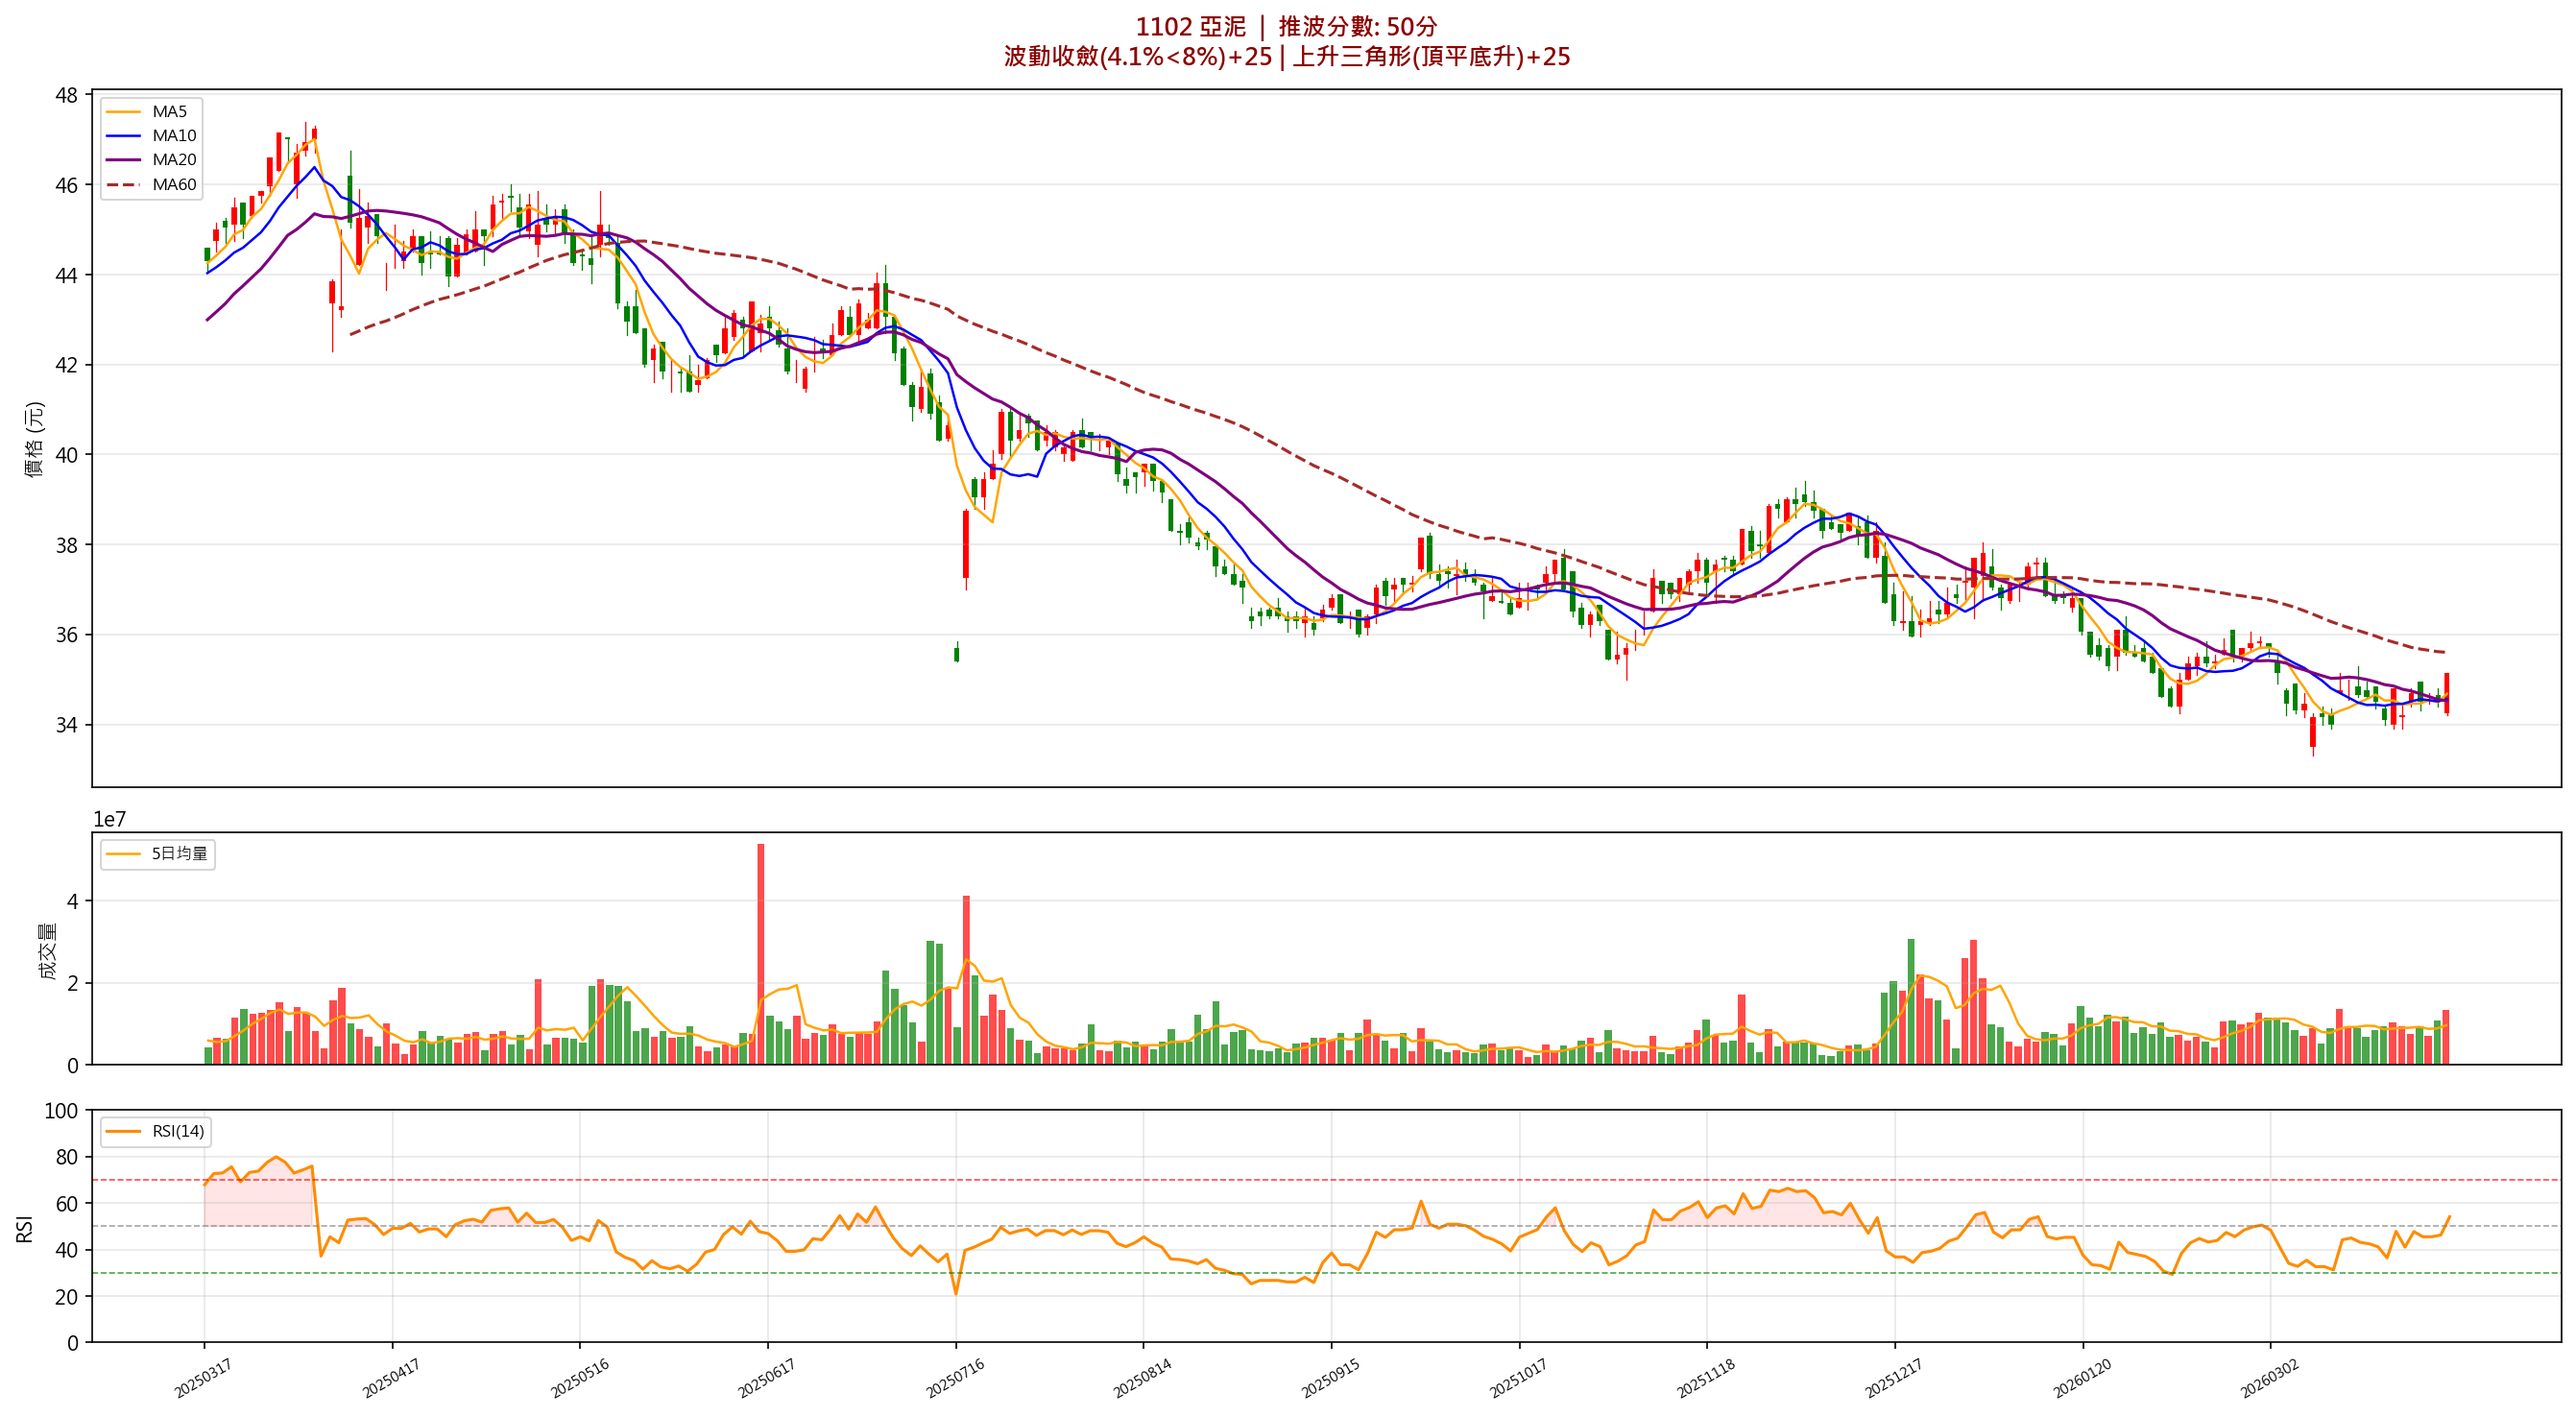
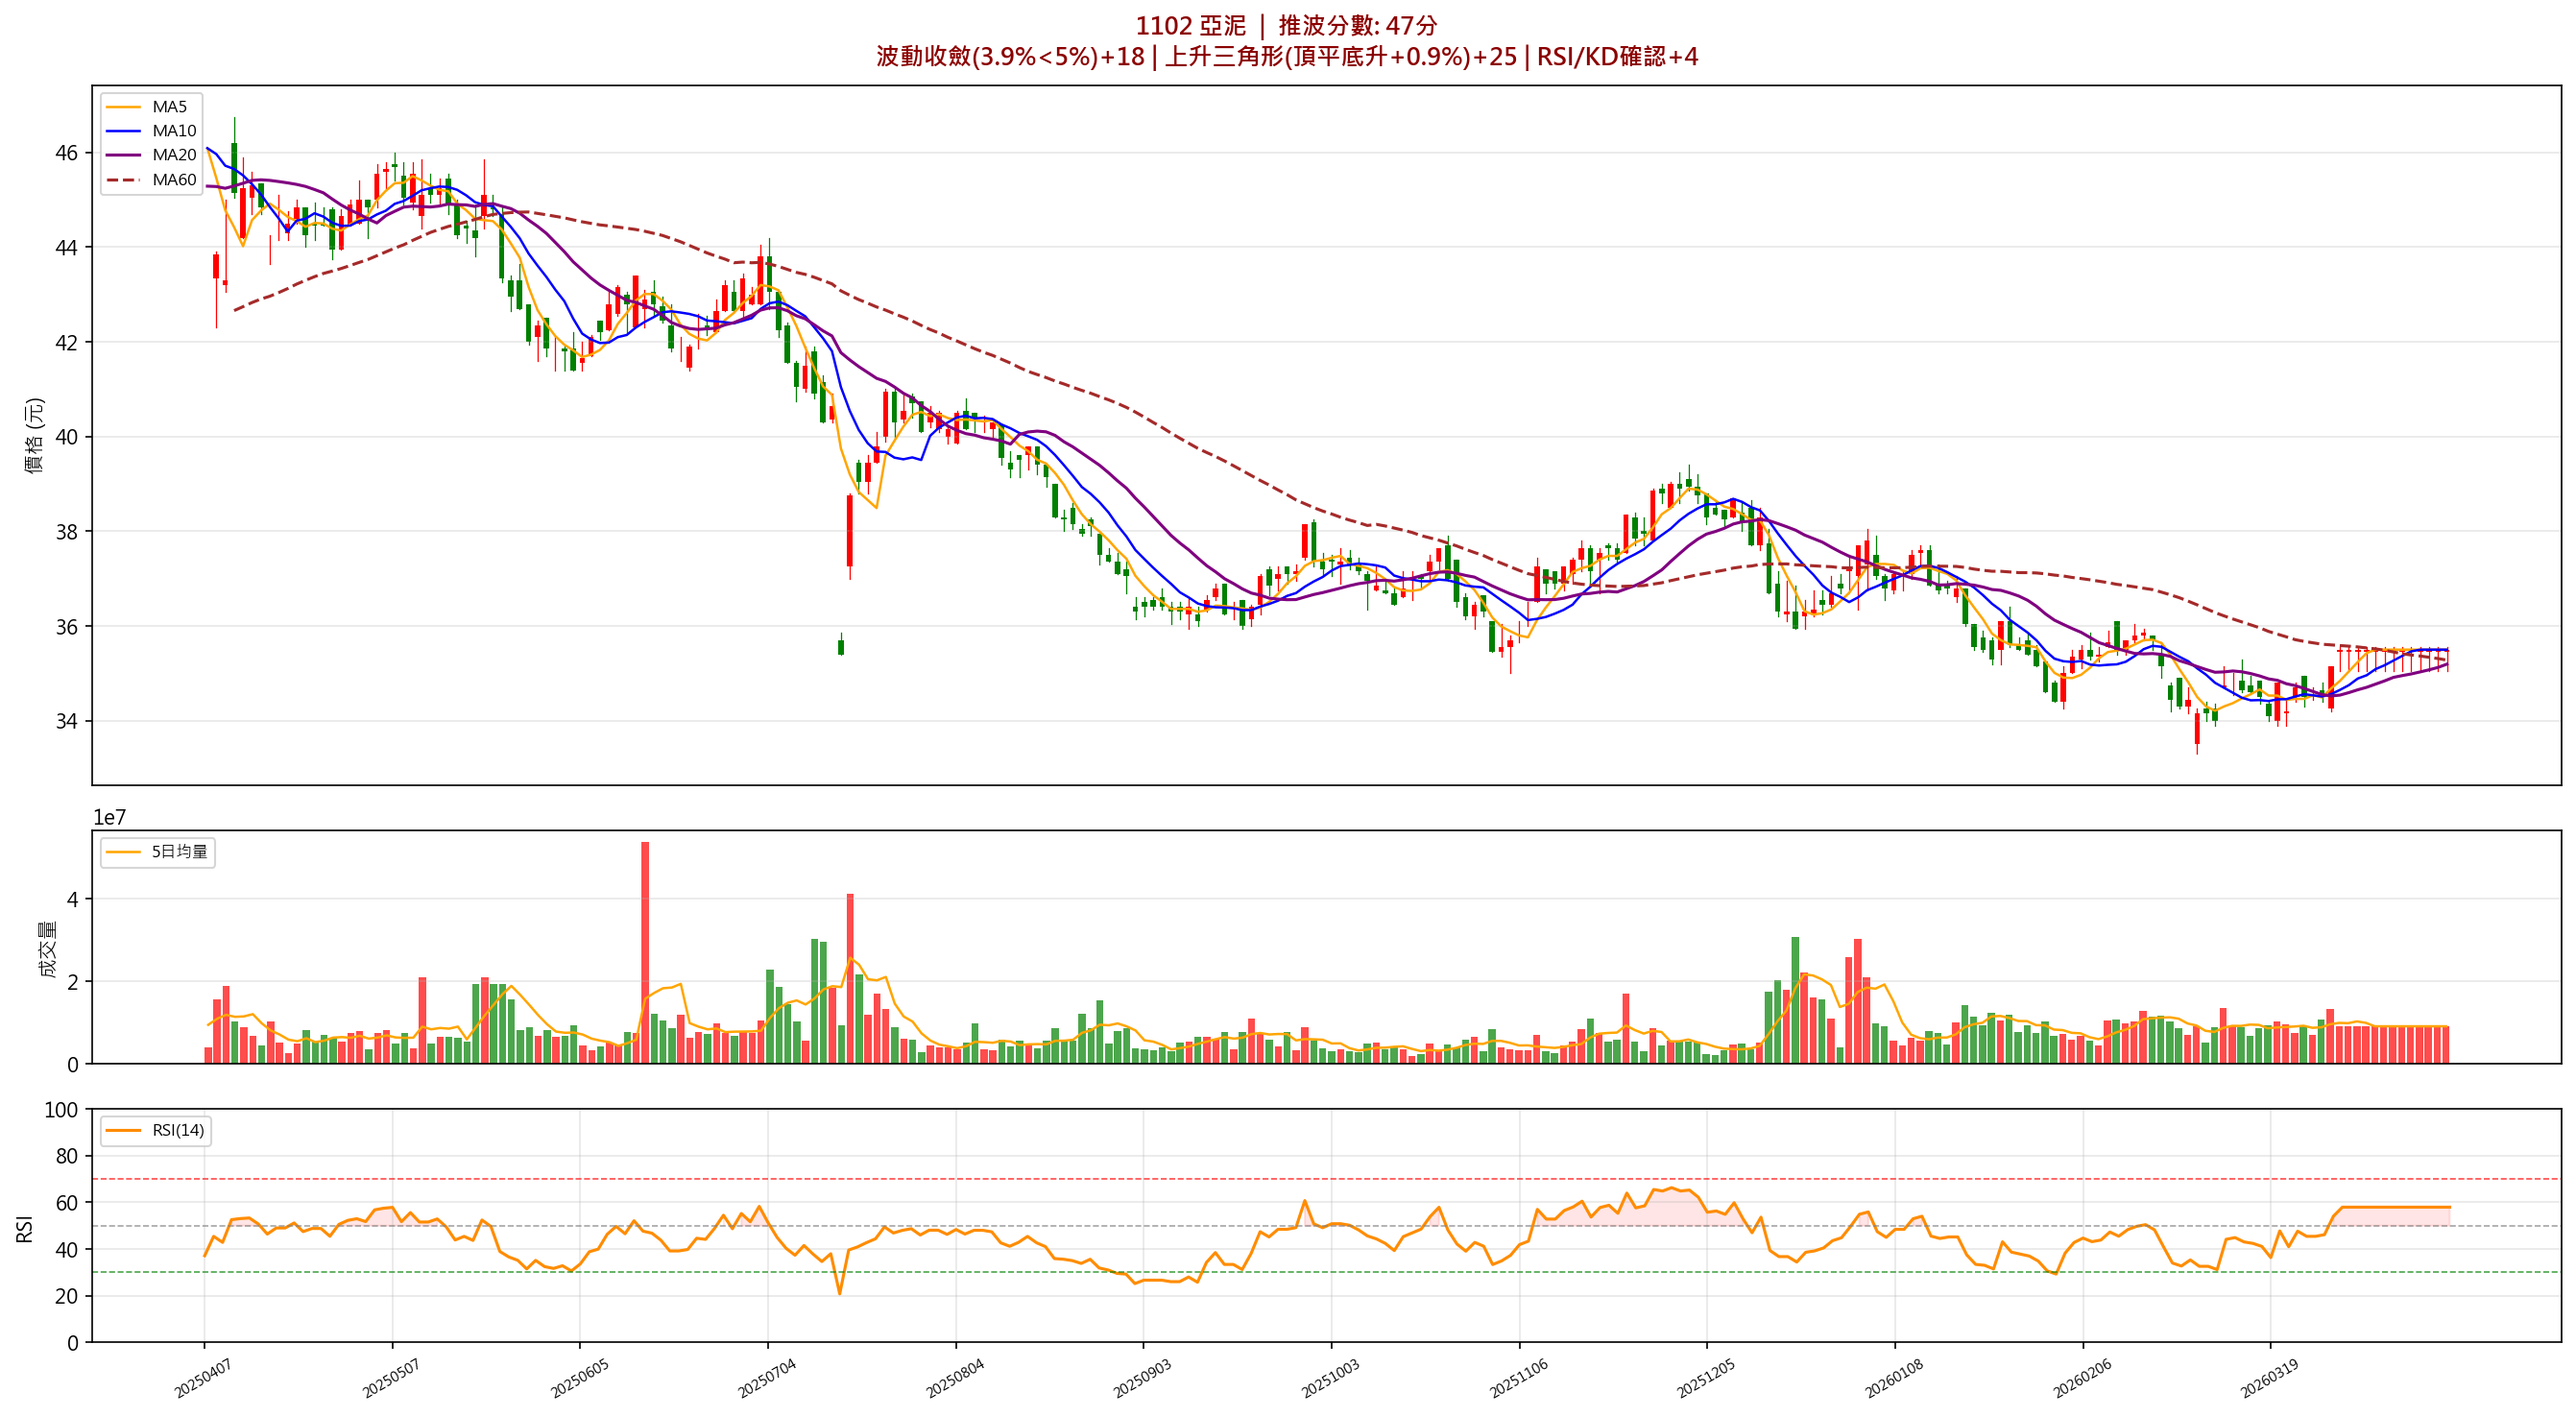
update report 2026-04-16 17:48

diff --git a/AI推波報告.html b/AI推波報告.html
@@ -1,6 +1,6 @@
 <!DOCTYPE html>
 <html lang='zh-TW'><head><meta charset='UTF-8'>
-<title>推波投資組合報告 20260330</title>
+<title>推波投資組合報告 20260416</title>
 <style>
   body{font-family:'Microsoft JhengHei',sans-serif;max-width:1000px;margin:30px auto;
         padding:20px;background:#fafafa;line-height:1.8}
@@ -25,23 +25,23 @@
                border-radius:4px;margin:12px 0;font-weight:bold}
 </style></head><body>
 <h1>📈 推波投資組合報告</h1>
-<div class="meta">分析日期: <b>20260330</b> （前次：20260330）
- &nbsp;|&nbsp; 核心池 0 支
- &nbsp;|&nbsp; 衛星池 20 支
+<div class="meta">分析日期: <b>20260416</b> （前次：20260330）
+ &nbsp;|&nbsp; 核心池 6 支
+ &nbsp;|&nbsp; 衛星池 9 支
  &nbsp;|&nbsp; 由 Gemini gemini-2.5-flash 分析</div>
 <div class="warn">⚠ 本報告由 AI 自動生成，僅供參考。股市有風險，投資前請自行評估。</div>
 
 
-<div class="section delta"><h2>📊 今日異動摘要</h2><h3>★ 新進入候選池</h3><ul><li><b>1102 亞泥</b> 推波分數 65 分</li><li><b>2105 正新</b> 推波分數 46 分</li><li><b>1229 聯華</b> 推波分數 45 分</li><li><b>2049 上銀</b> 推波分數 45 分</li><li><b>9907 統一實</b> 推波分數 40 分</li><li><b>2108 南帝</b> 推波分數 40 分</li><li><b>1723 中碳</b> 推波分數 40 分</li><li><b>1227 佳格</b> 推波分數 40 分</li><li><b>8210 勤誠</b> 推波分數 34 分</li><li><b>0052 富邦科技</b> 推波分數 30 分</li><li><b>0056 元大高股息</b> 推波分數 30 分</li><li><b>0050 元大台灣50</b> 推波分數 30 分</li><li><b>2023 燁輝</b> 推波分數 30 分</li></ul><h3>✗ 退出候選池</h3><ul><li><s>4942 嘉彰</s></li><li><s>1707 葡萄王</s></li><li><s>1463 強盛新</s></li><li><s>1219 福壽</s></li><li><s>6115 鎰勝</s></li><li><s>9944 新麗</s></li><li><s>3168 眾福科</s></li><li><s>1452 宏益</s></li><li><s>2459 敦吉</s></li><li><s>2707 晶華</s></li><li><s>2739 寒舍</s></li><li><s>2434 統懋</s></li><li><s>2114 鑫永銓</s></li></ul></div>
+<div class="section delta"><h2>📊 今日異動摘要</h2><h3>★ 新進入候選池</h3><ul><li><b>2845 遠東銀</b> 推波分數 76 分</li><li><b>1216 統一</b> 推波分數 71 分</li><li><b>9941 裕融</b> 推波分數 68 分</li><li><b>6005 群益證</b> 推波分數 67 分</li><li><b>1210 大成</b> 推波分數 67 分</li><li><b>2332 友訊</b> 推波分數 64 分</li><li><b>3413 京鼎</b> 推波分數 60 分</li><li><b>2354 鴻準</b> 推波分數 57 分</li><li><b>2010 春源</b> 推波分數 56 分</li><li><b>4306 炎洲</b> 推波分數 56 分</li><li><b>1402 遠東新</b> 推波分數 52 分</li><li><b>1536 和大</b> 推波分數 45 分</li></ul><h3>✗ 退出候選池</h3><ul><li><s>2886 兆豐金</s></li><li><s>3167 大量</s></li><li><s>2801 彰銀</s></li><li><s>2511 太子</s></li><li><s>2903 遠百</s></li><li><s>2105 正新</s></li><li><s>1229 聯華</s></li><li><s>2049 上銀</s></li><li><s>9907 統一實</s></li><li><s>2108 南帝</s></li><li><s>1723 中碳</s></li><li><s>1227 佳格</s></li><li><s>8210 勤誠</s></li><li><s>0052 富邦科技</s></li><li><s>0056 元大高股息</s></li><li><s>0050 元大台灣50</s></li><li><s>2023 燁輝</s></li></ul><h3>分數變動</h3><table><tr><th>代號</th><th>名稱</th><th>前次</th><th>今日</th><th>變動</th><th>所在池</th></tr><tr><td>2812</td><td>台中銀</td><td>68</td><td>81</td><td><span style="color:green">↑</span> 13</td><td>衛星池</td></tr><tr><td>5876</td><td>上海商銀</td><td>68</td><td>74</td><td><span style="color:green">↑</span> 6</td><td>衛星池</td></tr><tr><td>1102</td><td>亞泥</td><td>65</td><td>60</td><td><span style="color:red">↓</span> 5</td><td>衛星池</td></tr></table></div>
 
 <div class="section core">
 <h2>🏛 核心池（Core Pool）— 長期持有</h2>
-<p style="color:#aaa">核心池 暫無持股</p>
+<table><tr><th>代號</th><th>名稱</th><th>收盤</th><th>推波分數</th></tr><tr><td><b>2845</b></td><td>遠東銀</td><td>12.7</td><td style="color:#cc0000;font-weight:bold">76</td></tr><tr><td><b>9941</b></td><td>裕融</td><td>77.8</td><td style="color:#cc0000;font-weight:bold">68</td></tr><tr><td><b>6005</b></td><td>群益證</td><td>28.0</td><td style="color:#cc0000;font-weight:bold">67</td></tr><tr><td><b>1210</b></td><td>大成</td><td>54.8</td><td style="color:#cc0000;font-weight:bold">67</td></tr><tr><td><b>2010</b></td><td>春源</td><td>25.1</td><td style="color:#cc0000;font-weight:bold">56</td></tr><tr><td><b>1402</b></td><td>遠東新</td><td>26.45</td><td style="color:#cc0000;font-weight:bold">52</td></tr></table>
 </div>
 
 <div class="section satellite">
 <h2>🛰 衛星池（Satellite Pool）— 技術操作</h2>
-<table><tr><th>代號</th><th>名稱</th><th>收盤</th><th>推波分數</th></tr><tr><td><b>2886</b></td><td>兆豐金</td><td>38.65</td><td style="color:#0066cc;font-weight:bold">73</td></tr><tr><td><b>5876</b></td><td>上海商銀</td><td>39.0</td><td style="color:#0066cc;font-weight:bold">68</td></tr><tr><td><b>2812</b></td><td>台中銀</td><td>20.55</td><td style="color:#0066cc;font-weight:bold">68</td></tr><tr><td><b>1102</b></td><td>亞泥</td><td>35.15</td><td style="color:#0066cc;font-weight:bold">65</td></tr><tr><td><b>3167</b></td><td>大量</td><td>409.0</td><td style="color:#0066cc;font-weight:bold">59</td></tr><tr><td><b>2801</b></td><td>彰銀</td><td>20.35</td><td style="color:#0066cc;font-weight:bold">55</td></tr><tr><td><b>2511</b></td><td>太子</td><td>8.07</td><td style="color:#0066cc;font-weight:bold">54</td></tr><tr><td><b>2903</b></td><td>遠百</td><td>22.8</td><td style="color:#0066cc;font-weight:bold">53</td></tr><tr><td><b>2105</b></td><td>正新</td><td>31.6</td><td style="color:#0066cc;font-weight:bold">46</td></tr><tr><td><b>1229</b></td><td>聯華</td><td>44.75</td><td style="color:#0066cc;font-weight:bold">45</td></tr><tr><td><b>2049</b></td><td>上銀</td><td>247.0</td><td style="color:#0066cc;font-weight:bold">45</td></tr><tr><td><b>9907</b></td><td>統一實</td><td>18.3</td><td style="color:#0066cc;font-weight:bold">40</td></tr><tr><td><b>2108</b></td><td>南帝</td><td>26.7</td><td style="color:#0066cc;font-weight:bold">40</td></tr><tr><td><b>1723</b></td><td>中碳</td><td>88.7</td><td style="color:#0066cc;font-weight:bold">40</td></tr><tr><td><b>1227</b></td><td>佳格</td><td>30.3</td><td style="color:#0066cc;font-weight:bold">40</td></tr><tr><td><b>8210</b></td><td>勤誠</td><td>895.0</td><td style="color:#0066cc;font-weight:bold">34</td></tr><tr><td><b>0052</b></td><td>富邦科技</td><td>43.66</td><td style="color:#0066cc;font-weight:bold">30</td></tr><tr><td><b>0056</b></td><td>元大高股息</td><td>37.85</td><td style="color:#0066cc;font-weight:bold">30</td></tr><tr><td><b>0050</b></td><td>元大台灣50</td><td>73.9</td><td style="color:#0066cc;font-weight:bold">30</td></tr><tr><td><b>2023</b></td><td>燁輝</td><td>14.45</td><td style="color:#0066cc;font-weight:bold">30</td></tr></table>
+<table><tr><th>代號</th><th>名稱</th><th>收盤</th><th>推波分數</th></tr><tr><td><b>2812</b></td><td>台中銀</td><td>20.65</td><td style="color:#0066cc;font-weight:bold">81</td></tr><tr><td><b>5876</b></td><td>上海商銀</td><td>39.75</td><td style="color:#0066cc;font-weight:bold">74</td></tr><tr><td><b>1216</b></td><td>統一</td><td>73.0</td><td style="color:#0066cc;font-weight:bold">71</td></tr><tr><td><b>2332</b></td><td>友訊</td><td>15.45</td><td style="color:#0066cc;font-weight:bold">64</td></tr><tr><td><b>1102</b></td><td>亞泥</td><td>35.5</td><td style="color:#0066cc;font-weight:bold">60</td></tr><tr><td><b>3413</b></td><td>京鼎</td><td>315.5</td><td style="color:#0066cc;font-weight:bold">60</td></tr><tr><td><b>2354</b></td><td>鴻準</td><td>52.6</td><td style="color:#0066cc;font-weight:bold">57</td></tr><tr><td><b>4306</b></td><td>炎洲</td><td>13.8</td><td style="color:#0066cc;font-weight:bold">56</td></tr><tr><td><b>1536</b></td><td>和大</td><td>50.8</td><td style="color:#0066cc;font-weight:bold">45</td></tr></table>
 </div>
 
 

diff --git a/推波報告.html b/推波報告.html
@@ -116,7 +116,7 @@
 <div class="header">
   <h1>📈 推波選股報告</h1>
   <div class="meta">
-    更新時間：<b>2026-03-30 22:21</b><br>
+    更新時間：<b>2026-04-16 17:47</b><br>
     最新交易日：<b>20260330</b> &nbsp;｜&nbsp; 候選股：<b>20 支</b> &nbsp;｜&nbsp; 含籌碼分數
   </div>
 </div>
